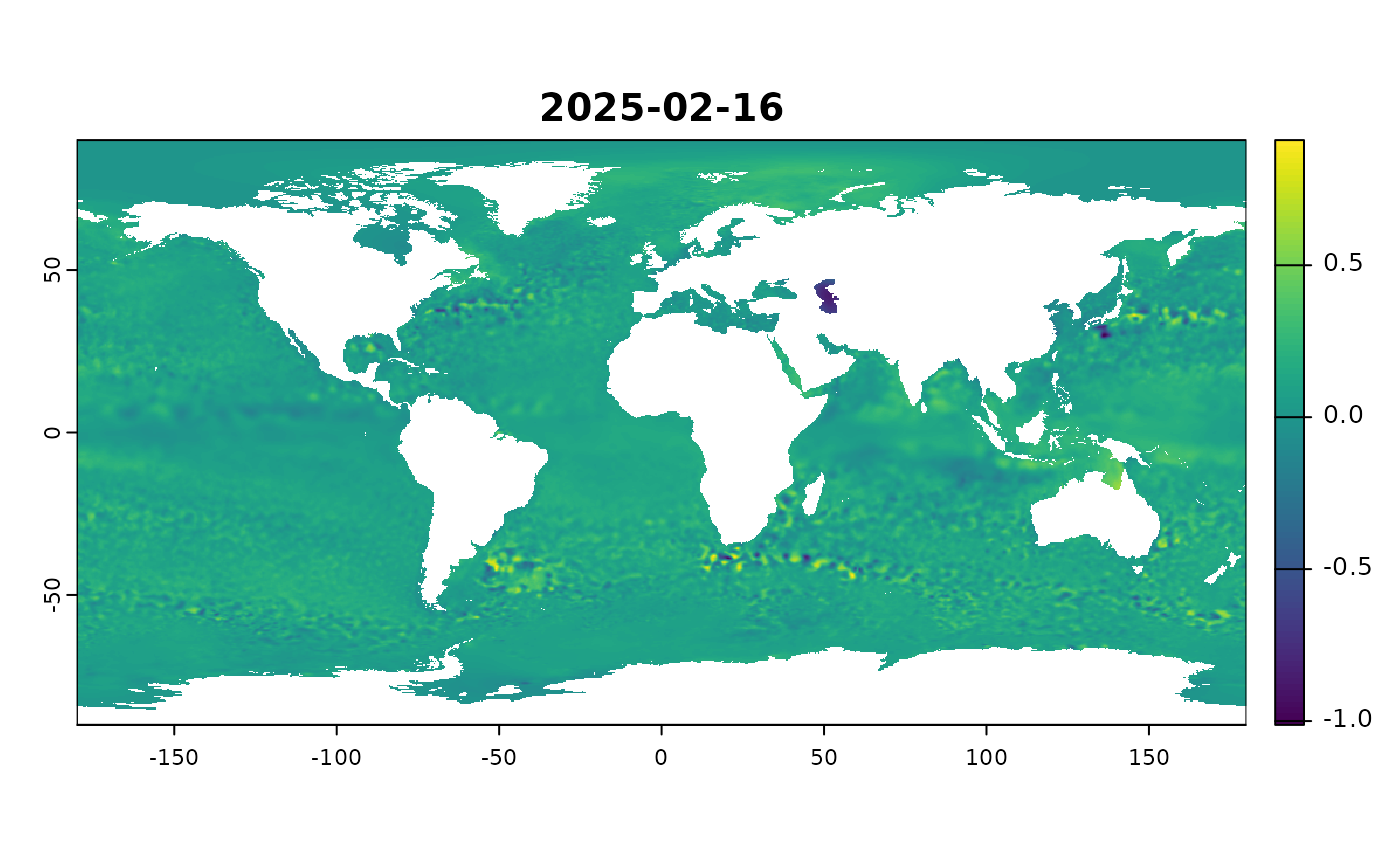
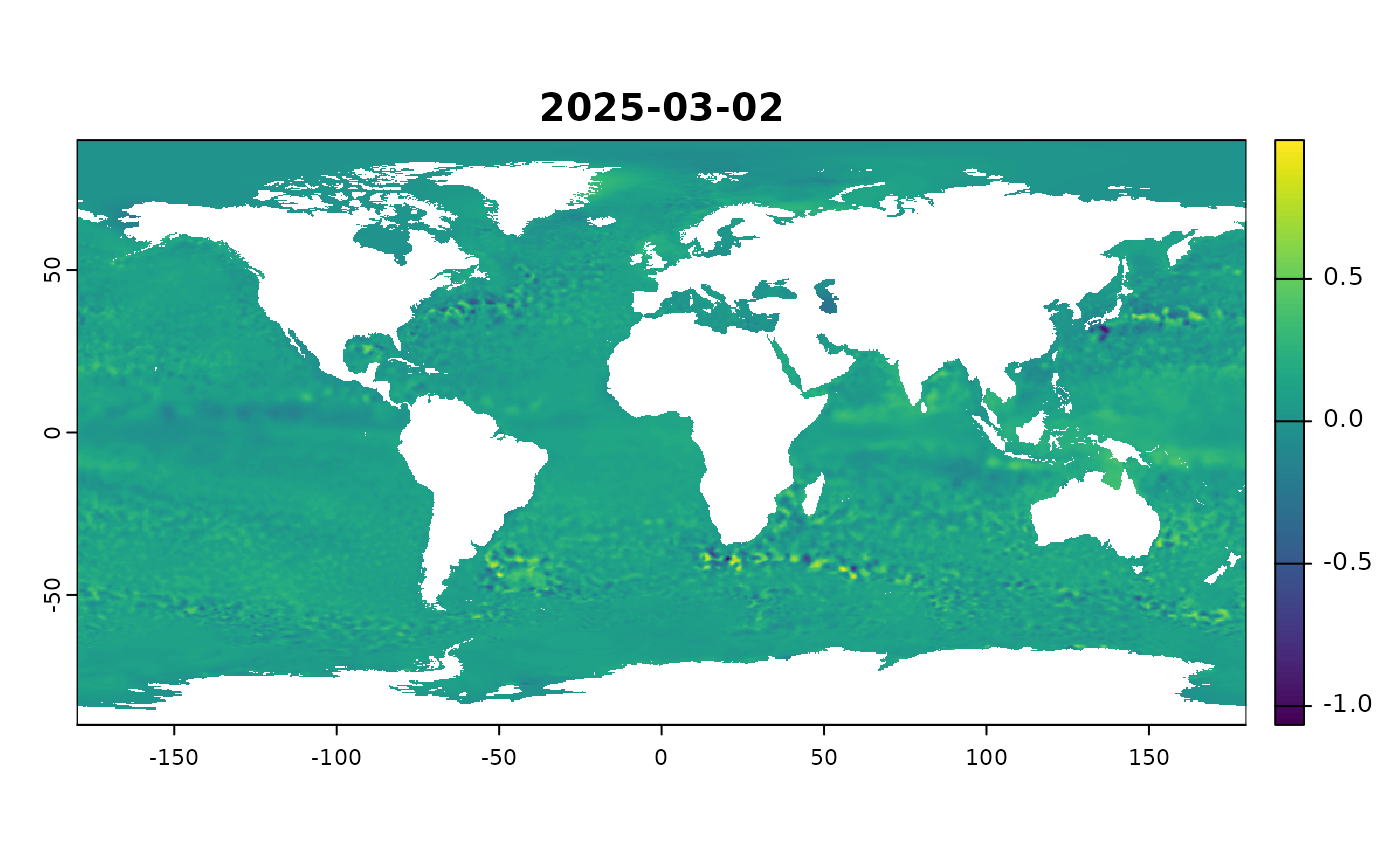
Deploying to gh-pages from @ mdsumner/sooty.watch@ab9be34b8edc25c5614bd5cd817973bccfec8bf4 🚀

diff --git a/articles/sooty-watch.html b/articles/sooty-watch.html
@@ -89,11 +89,11 @@
 <span><span class="co">#&gt; <span style="color: #949494;"># A tibble: 7 × 4</span></span></span>
 <span><span class="co">#&gt;   Dataset                        mindate             maxdate                 n</span></span>
 <span><span class="co">#&gt;   <span style="color: #949494; font-style: italic;">&lt;chr&gt;</span>                          <span style="color: #949494; font-style: italic;">&lt;dttm&gt;</span>              <span style="color: #949494; font-style: italic;">&lt;dttm&gt;</span>              <span style="color: #949494; font-style: italic;">&lt;int&gt;</span></span></span>
-<span><span class="co">#&gt; <span style="color: #BCBCBC;">1</span> NSIDC_SEAICE_PS_N25km          1978-10-26 <span style="color: #949494;">00:00:00</span> 2025-03-01 <span style="color: #949494;">00:00:00</span> <span style="text-decoration: underline;">16</span>923</span></span>
-<span><span class="co">#&gt; <span style="color: #BCBCBC;">2</span> NSIDC_SEAICE_PS_S25km          1978-10-26 <span style="color: #949494;">00:00:00</span> 2025-03-01 <span style="color: #949494;">00:00:00</span> <span style="text-decoration: underline;">16</span>923</span></span>
-<span><span class="co">#&gt; <span style="color: #BCBCBC;">3</span> antarctica-amsr2-asi-s3125-tif 2012-07-02 <span style="color: #949494;">00:00:00</span> 2025-03-01 <span style="color: #949494;">00:00:00</span>  <span style="text-decoration: underline;">4</span>615</span></span>
-<span><span class="co">#&gt; <span style="color: #BCBCBC;">4</span> oisst-avhrr-v02r01             1981-09-01 <span style="color: #949494;">00:00:00</span> 2025-03-01 <span style="color: #949494;">00:00:00</span> <span style="text-decoration: underline;">15</span>888</span></span>
-<span><span class="co">#&gt; <span style="color: #BCBCBC;">5</span> SEALEVEL_GLO_PHY_L4            1993-01-01 <span style="color: #949494;">00:00:00</span> 2025-02-16 <span style="color: #949494;">00:00:00</span> <span style="text-decoration: underline;">11</span>621</span></span>
+<span><span class="co">#&gt; <span style="color: #BCBCBC;">1</span> SEALEVEL_GLO_PHY_L4            1993-01-01 <span style="color: #949494;">00:00:00</span> 2025-03-02 <span style="color: #949494;">00:00:00</span> <span style="text-decoration: underline;">11</span>635</span></span>
+<span><span class="co">#&gt; <span style="color: #BCBCBC;">2</span> NSIDC_SEAICE_PS_N25km          1978-10-26 <span style="color: #949494;">00:00:00</span> 2025-03-01 <span style="color: #949494;">00:00:00</span> <span style="text-decoration: underline;">16</span>923</span></span>
+<span><span class="co">#&gt; <span style="color: #BCBCBC;">3</span> NSIDC_SEAICE_PS_S25km          1978-10-26 <span style="color: #949494;">00:00:00</span> 2025-03-01 <span style="color: #949494;">00:00:00</span> <span style="text-decoration: underline;">16</span>923</span></span>
+<span><span class="co">#&gt; <span style="color: #BCBCBC;">4</span> antarctica-amsr2-asi-s3125-tif 2012-07-02 <span style="color: #949494;">00:00:00</span> 2025-03-01 <span style="color: #949494;">00:00:00</span>  <span style="text-decoration: underline;">4</span>615</span></span>
+<span><span class="co">#&gt; <span style="color: #BCBCBC;">5</span> oisst-avhrr-v02r01             1981-09-01 <span style="color: #949494;">00:00:00</span> 2025-03-01 <span style="color: #949494;">00:00:00</span> <span style="text-decoration: underline;">15</span>888</span></span>
 <span><span class="co">#&gt; <span style="color: #BCBCBC;">6</span> oisst-tif                      1981-09-01 <span style="color: #949494;">00:00:00</span> 2025-02-16 <span style="color: #949494;">00:00:00</span> <span style="text-decoration: underline;">15</span>875</span></span>
 <span><span class="co">#&gt; <span style="color: #BCBCBC;">7</span> ghrsst-tif                     2002-06-01 <span style="color: #949494;">00:00:00</span> 2025-02-15 <span style="color: #949494;">00:00:00</span>  <span style="text-decoration: underline;">3</span>436</span></span>
 <span></span>
@@ -107,7 +107,7 @@
 <span><span class="co">#&gt; <span style="color: #BCBCBC;">4</span> idea-sealevel-glo-phy-l4-rep-observations-008-047 <span style="text-decoration: underline;">11</span>208</span></span>
 <span><span class="co">#&gt; <span style="color: #BCBCBC;">5</span> idea-amsr2-asi-s3125                               <span style="text-decoration: underline;">4</span>615</span></span>
 <span><span class="co">#&gt; <span style="color: #BCBCBC;">6</span> idea-ghrsst                                        <span style="text-decoration: underline;">3</span>436</span></span>
-<span><span class="co">#&gt; <span style="color: #BCBCBC;">7</span> idea-sealevel-glo-phy-l4-nrt-008-046                413</span></span></code></pre></div>
+<span><span class="co">#&gt; <span style="color: #BCBCBC;">7</span> idea-sealevel-glo-phy-l4-nrt-008-046                427</span></span></code></pre></div>
 <p>For each dataset, let’s get the first and last and plot.</p>
 <div class="sourceCode" id="cb3"><pre class="downlit sourceCode r">
 <code class="sourceCode R"><span><span class="kw"><a href="https://rdrr.io/r/base/library.html" class="external-link">library</a></span><span class="op">(</span><span class="va"><a href="https://dplyr.tidyverse.org" class="external-link">dplyr</a></span><span class="op">)</span></span>

diff --git a/reference/watch.html b/reference/watch.html
@@ -72,11 +72,11 @@
 <span class="r-out co"><span class="r-pr">#&gt;</span> <span style="color: #949494;"># A tibble: 7 × 4</span></span>
 <span class="r-out co"><span class="r-pr">#&gt;</span>   Dataset                        mindate             maxdate                 n</span>
 <span class="r-out co"><span class="r-pr">#&gt;</span>   <span style="color: #949494; font-style: italic;">&lt;chr&gt;</span>                          <span style="color: #949494; font-style: italic;">&lt;dttm&gt;</span>              <span style="color: #949494; font-style: italic;">&lt;dttm&gt;</span>              <span style="color: #949494; font-style: italic;">&lt;int&gt;</span></span>
-<span class="r-out co"><span class="r-pr">#&gt;</span> <span style="color: #BCBCBC;">1</span> NSIDC_SEAICE_PS_N25km          1978-10-26 <span style="color: #949494;">00:00:00</span> 2025-03-01 <span style="color: #949494;">00:00:00</span> <span style="text-decoration: underline;">16</span>923</span>
-<span class="r-out co"><span class="r-pr">#&gt;</span> <span style="color: #BCBCBC;">2</span> NSIDC_SEAICE_PS_S25km          1978-10-26 <span style="color: #949494;">00:00:00</span> 2025-03-01 <span style="color: #949494;">00:00:00</span> <span style="text-decoration: underline;">16</span>923</span>
-<span class="r-out co"><span class="r-pr">#&gt;</span> <span style="color: #BCBCBC;">3</span> antarctica-amsr2-asi-s3125-tif 2012-07-02 <span style="color: #949494;">00:00:00</span> 2025-03-01 <span style="color: #949494;">00:00:00</span>  <span style="text-decoration: underline;">4</span>615</span>
-<span class="r-out co"><span class="r-pr">#&gt;</span> <span style="color: #BCBCBC;">4</span> oisst-avhrr-v02r01             1981-09-01 <span style="color: #949494;">00:00:00</span> 2025-03-01 <span style="color: #949494;">00:00:00</span> <span style="text-decoration: underline;">15</span>888</span>
-<span class="r-out co"><span class="r-pr">#&gt;</span> <span style="color: #BCBCBC;">5</span> SEALEVEL_GLO_PHY_L4            1993-01-01 <span style="color: #949494;">00:00:00</span> 2025-02-16 <span style="color: #949494;">00:00:00</span> <span style="text-decoration: underline;">11</span>621</span>
+<span class="r-out co"><span class="r-pr">#&gt;</span> <span style="color: #BCBCBC;">1</span> SEALEVEL_GLO_PHY_L4            1993-01-01 <span style="color: #949494;">00:00:00</span> 2025-03-02 <span style="color: #949494;">00:00:00</span> <span style="text-decoration: underline;">11</span>635</span>
+<span class="r-out co"><span class="r-pr">#&gt;</span> <span style="color: #BCBCBC;">2</span> NSIDC_SEAICE_PS_N25km          1978-10-26 <span style="color: #949494;">00:00:00</span> 2025-03-01 <span style="color: #949494;">00:00:00</span> <span style="text-decoration: underline;">16</span>923</span>
+<span class="r-out co"><span class="r-pr">#&gt;</span> <span style="color: #BCBCBC;">3</span> NSIDC_SEAICE_PS_S25km          1978-10-26 <span style="color: #949494;">00:00:00</span> 2025-03-01 <span style="color: #949494;">00:00:00</span> <span style="text-decoration: underline;">16</span>923</span>
+<span class="r-out co"><span class="r-pr">#&gt;</span> <span style="color: #BCBCBC;">4</span> antarctica-amsr2-asi-s3125-tif 2012-07-02 <span style="color: #949494;">00:00:00</span> 2025-03-01 <span style="color: #949494;">00:00:00</span>  <span style="text-decoration: underline;">4</span>615</span>
+<span class="r-out co"><span class="r-pr">#&gt;</span> <span style="color: #BCBCBC;">5</span> oisst-avhrr-v02r01             1981-09-01 <span style="color: #949494;">00:00:00</span> 2025-03-01 <span style="color: #949494;">00:00:00</span> <span style="text-decoration: underline;">15</span>888</span>
 <span class="r-out co"><span class="r-pr">#&gt;</span> <span style="color: #BCBCBC;">6</span> oisst-tif                      1981-09-01 <span style="color: #949494;">00:00:00</span> 2025-02-16 <span style="color: #949494;">00:00:00</span> <span style="text-decoration: underline;">15</span>875</span>
 <span class="r-out co"><span class="r-pr">#&gt;</span> <span style="color: #BCBCBC;">7</span> ghrsst-tif                     2002-06-01 <span style="color: #949494;">00:00:00</span> 2025-02-15 <span style="color: #949494;">00:00:00</span>  <span style="text-decoration: underline;">3</span>436</span>
 </code></pre></div>
